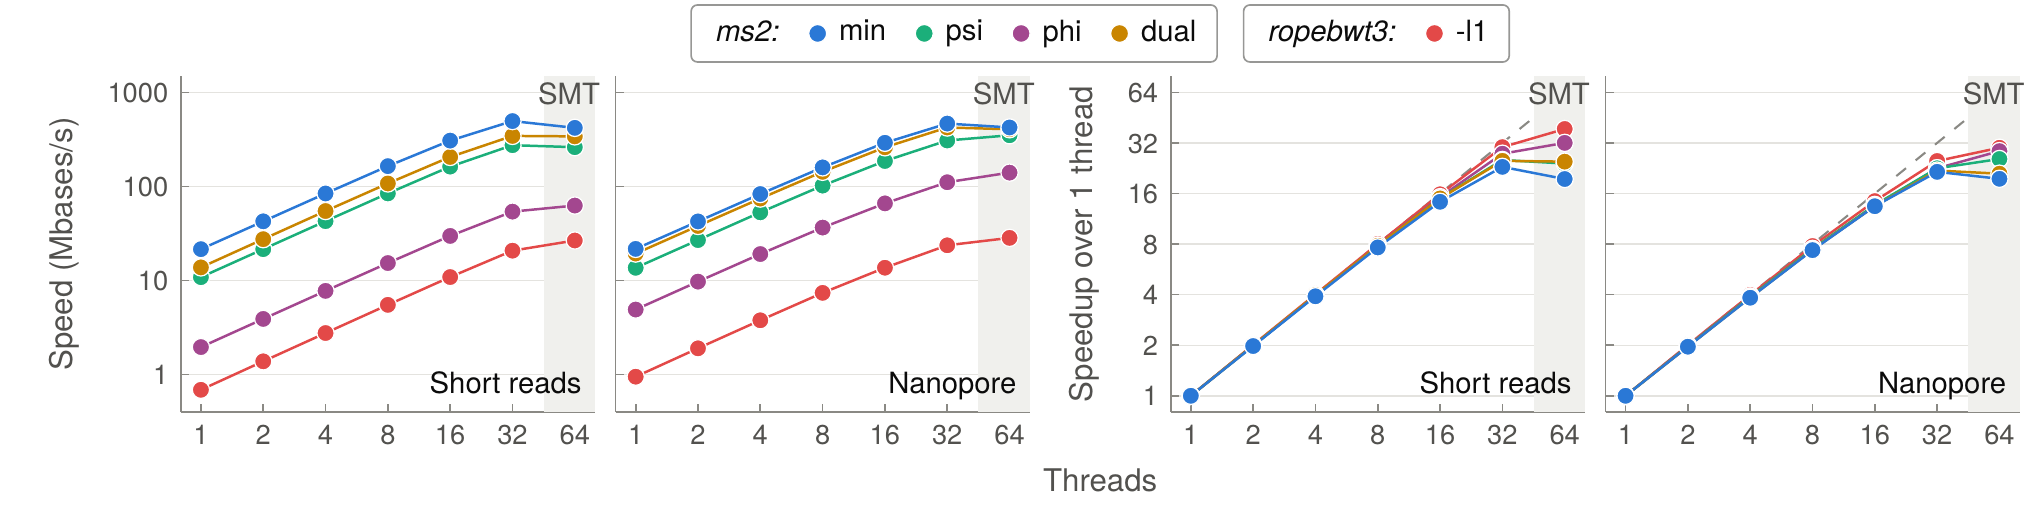
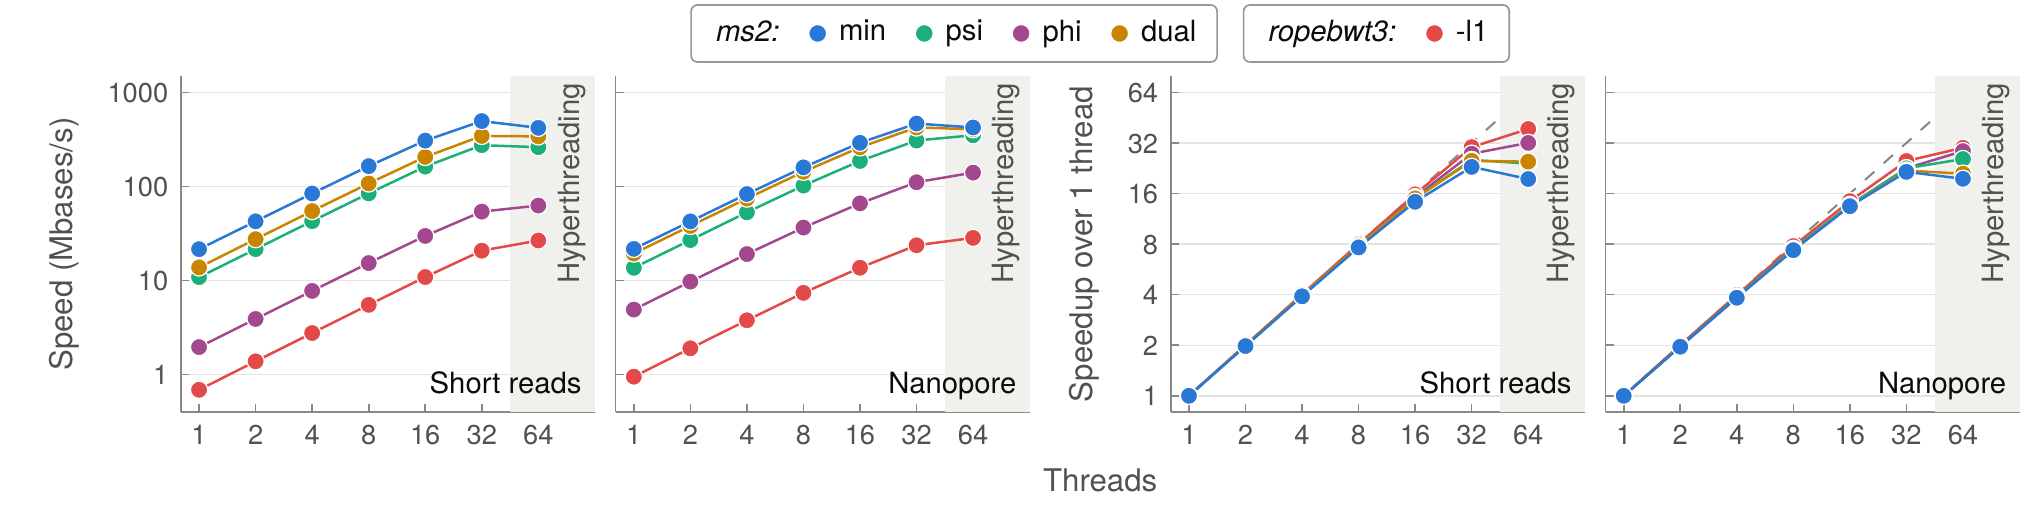
Label the thread-scaling band Hyperthreading and add its caption
The shaded band at 64 threads now carries a vertical Hyperthreading label inside it, and the x axis runs to 128 so the label clears the 64-thread marks. tex/fig-threads-caption.tex holds the LaTeX caption, which names both hyperthreading and SMT, and draft/fig-threads-captioned.png shows the figure with it.

diff --git a/figures/tikz/fig-threads.tex b/figures/tikz/fig-threads.tex
@@ -1,7 +1,7 @@
 % Fig Threads (appendix): thread scaling on the HPRC2 1 Gbase short-read and Nanopore sets.
 % Left pair: speed (Mbases/s of query time) against threads; right pair: speedup over one
 % thread, with the dashed line for linear scaling up to the 32 physical cores. Threads 1 to 32 run on physical cores of one
-% socket; 64 runs on both hardware threads of those 32 cores, the shaded SMT band. Data from
+% socket; 64 runs on both hardware threads of those 32 cores, the shaded band, labeled Hyperthreading (SMT). Data from
 % fig_threads_data.py.
 \documentclass[border=1pt]{standalone}
 \input{figures-style}
@@ -9,18 +9,18 @@
 \begin{document}
 \pgfplotsset{
   ms link/rl1/.style={fig link=ropeRed},
-  threads axis/.style={fig axis, xmin=0.8, xmax=80,
+  threads axis/.style={fig axis, xmin=0.8, xmax=128,
     xtick={1,2,4,8,16,32,64}, xticklabels={1,2,4,8,16,32,64}},
   speed axis/.style={threads axis, ymin=0.4, ymax=1500,
     ytick={1,10,100,1000}, yticklabels={1,10,100,1000}},
   speedup axis/.style={threads axis, ymin=0.8, ymax=80,
     ytick={1,2,4,8,16,32,64}, yticklabels={1,2,4,8,16,32,64}},
 }
-% \figThreadsBand: the SMT band at 64 threads, drawn under the data.
+% \figThreadsBand: the hyperthreading (SMT) band at 64 threads, drawn under the data.
 \newcommand{\figThreadsBand}{%
   \fill[figGrid!55] ({axis cs:45.25,1} |- {rel axis cs:0,0}) rectangle ({rel axis cs:1,1});
-  \node[anchor=north, inner sep=1.5pt, font=\figPointFont, text=figInkTwo]
-    at ({axis cs:60,1} |- {rel axis cs:0,1}) {SMT};}
+  \node[rotate=90, anchor=east, inner sep=1.5pt, font=\figPointFont, text=figInkTwo]
+    at ({axis cs:96,1} |- {rel axis cs:0,1}) {Hyperthreading};}
 % \figThreadsSeries{file}{column}: joining lines then marks, one per configuration.
 \newcommand{\figThreadsSeries}[2]{%
   \pgfplotsinvokeforeach{rl1,phi,psi,dual,lcp}{%

diff --git a/figures/tex/fig-threads-caption.tex b/figures/tex/fig-threads-caption.tex
@@ -1,0 +1,18 @@
+% Caption for Fig Threads (fig-threads.tex), thread-scaling appendix. Numbers from the
+% threads-2885ee8-da1041e8 sweep.
+\caption{Thread scaling of matching statistics (MS) queries on the HPRC2 index (Human472, 472
+haplotypes). Left: query speed (Mbases/s) against the number of threads for the ms2 modes min, psi,
+phi and dual and for ropebwt3 \texttt{-l1}, which reports every MS value. Right: speedup over the
+same configuration at one thread; the dashed line marks linear scaling up to 32 threads. Query
+sets: Short reads (Illumina, ACGT-only), 7,982,098 reads, 997.8 Mbases; Nanopore (HG002 Q28),
+43,346 reads, 1,000.0 Mbases. Each set extends the corresponding 60 Mbase set of
+Fig.~\ref{fig:ms}, which is its prefix. All runs used one AWS i4i.metal instance (two sockets of
+32 cores each). With $T \le 32$ threads, each thread was bound to its own physical core of the
+first socket. At $T = 64$ (gray band), two threads shared each of those 32 cores through
+hyperthreading, also called simultaneous multithreading (SMT). Memory was bound to the same
+socket in every run. ms2 split the reads into 2 MiB blocks and ropebwt3 ran with
+\texttt{-t}~$T$. Speed is query time only; index load time is excluded. Each value is the median
+of three runs, with the page cache dropped before each run. The output of every run matched the
+ropebwt3 truth at every position, and each configuration's output was byte-identical at all
+seven thread counts. ms2 commit 2885ee8; ropebwt3 commit b408339.}
+\label{fig:threads}
